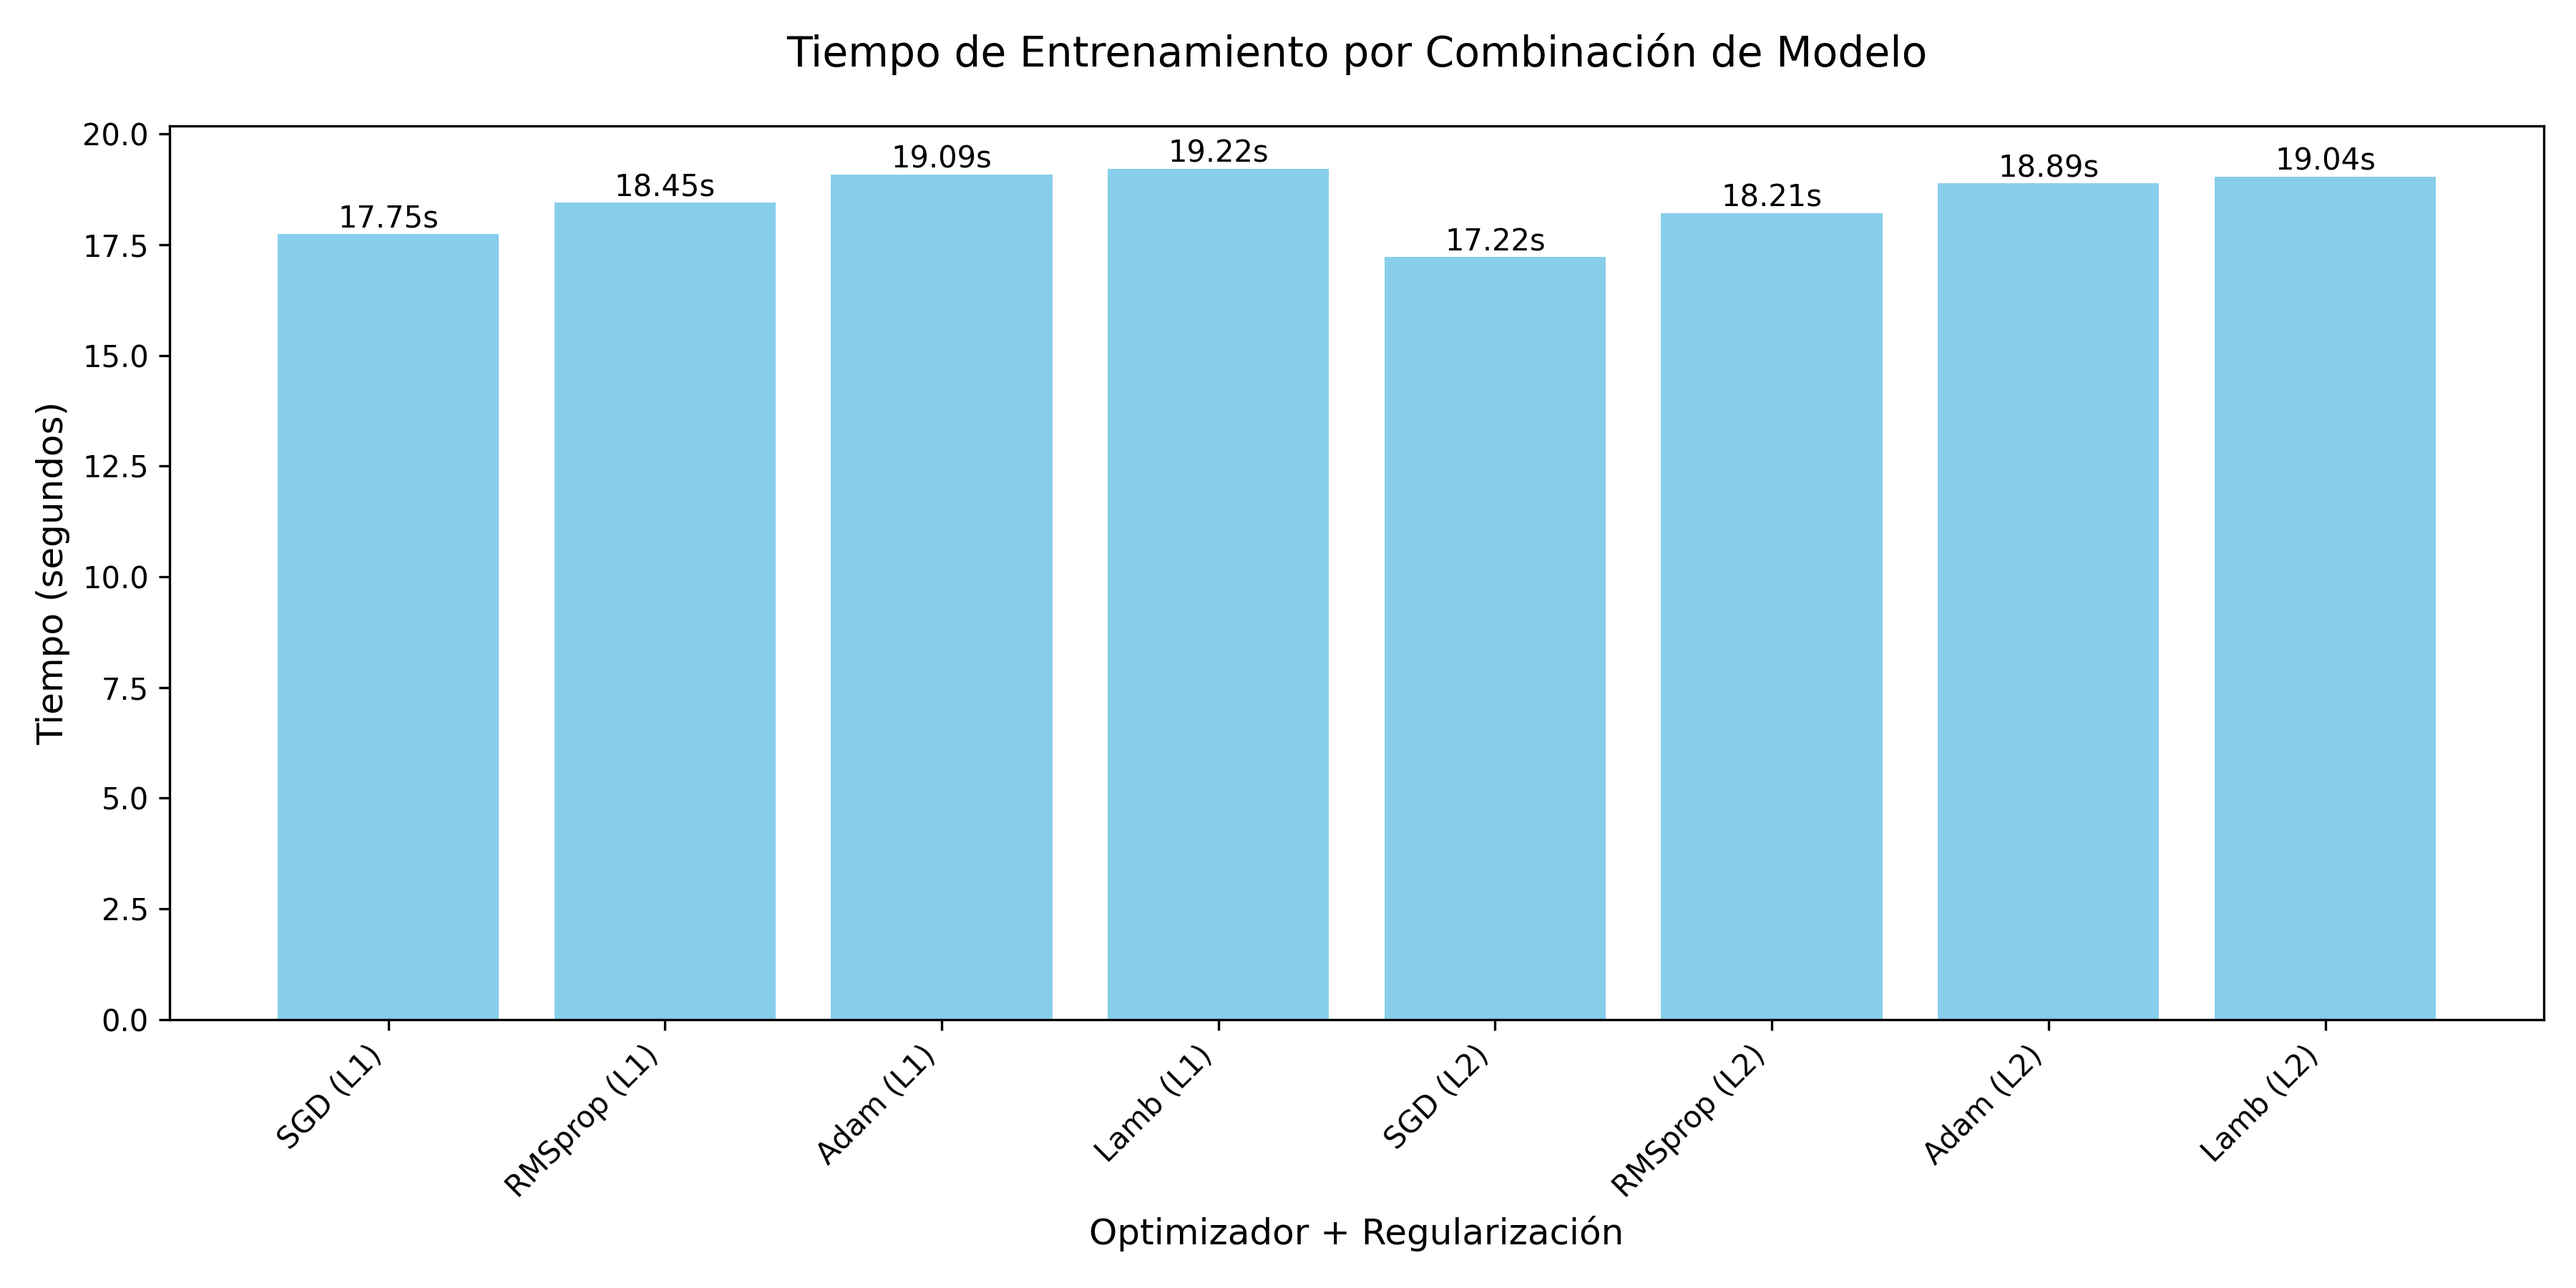
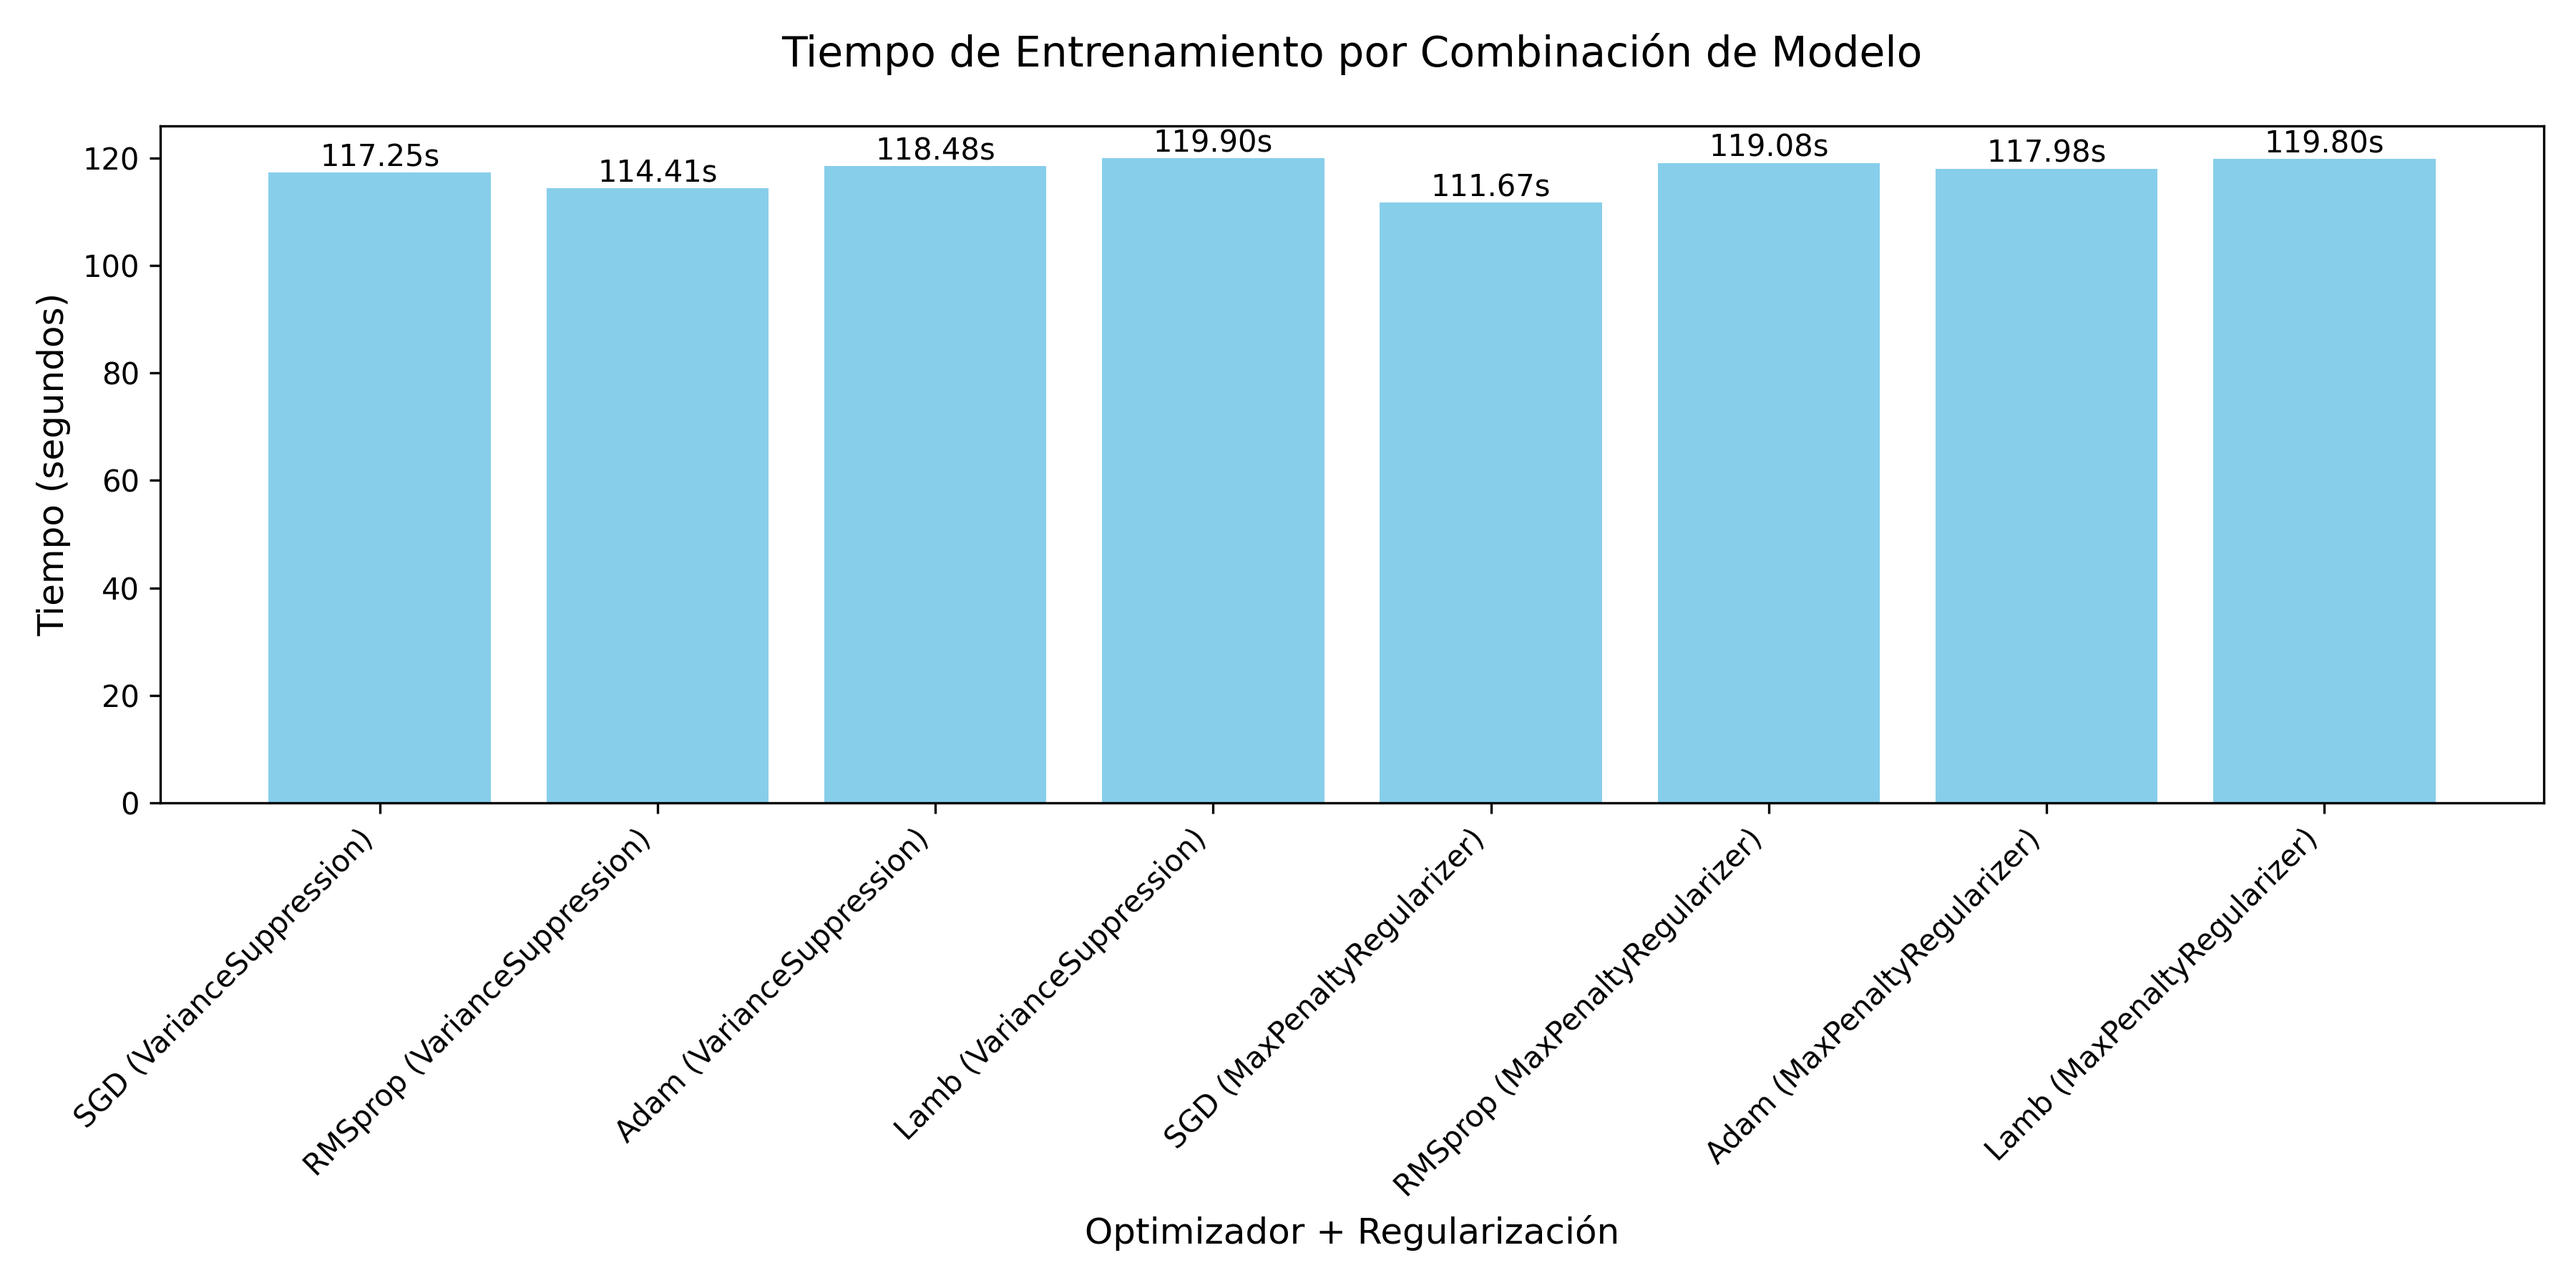
Cambios finales

diff --git a/definir_modelo.py b/definir_modelo.py
@@ -12,7 +12,7 @@ from keras.regularizers import Regularizer
 # Penaliza pesos grandes, pero con una transición más suave.
 # Ventaja: Evita explosiones de gradiente cerca de 0 y es útil para mantener algunos pesos pequeños sin hacerlos exactamente cero.
 class SmoothedAbs(Regularizer):
-    def __init__(self, lmbd=0.01, epsilon=1e-4):
+    def __init__(self, lmbd=0.001, epsilon=1e-4):
         self.lmbd = lmbd
         self.epsilon = epsilon
 
@@ -27,7 +27,7 @@ class SmoothedAbs(Regularizer):
 # Esto impide que los pesos con valores grandes sean castigados excesivamente.
 # Ventaja: Previene que el modelo evite completamente pesos grandes si son necesarios, protegiendo la capacidad de aprendizaje en algunas neuronas.
 class RoundedSquare(Regularizer):
-    def __init__(self, lmbd=0.01, max_val=5.0):
+    def __init__(self, lmbd=0.001, max_val=5.0):
         self.lmbd = lmbd
         self.max_val = max_val
 
@@ -39,45 +39,13 @@ class RoundedSquare(Regularizer):
     def get_config(self):
         return {'lmbd': self.lmbd, 'max_val': self.max_val}
     
-# Contrast Regularizer
-# Penaliza valores intermedios de los pesos (cerca de 0.5 en módulo).
-# El producto |x|(1 - |x|) tiene su pico en |x| = 0.5 y cae a 0 cuando x se acerca a 0 o 1.
-# Fomenta pesos más binarios o extremos.
-# Ventaja: Muy útil en modelos con muchas variables dummy (como los que salen de one-hot), ya que empuja al modelo a tomar decisiones firmes (activa o desactiva neuronas).
-class ContrastRegularizer(Regularizer):
-    def __init__(self, lmbd=0.01):
-        self.lmbd = lmbd
-
-    def __call__(self, x):
-        return self.lmbd * tf.reduce_sum(tf.abs(x) * (1 - tf.abs(x)))
-
-    def get_config(self):
-        return {'lmbd': self.lmbd}
-    
-# Entropy-like Regularizer
-# Inspirada en la entropía binaria.
-# Penaliza valores de peso cercanos a 0.5 (alta incertidumbre).
-# Empuja a que los pesos estén más cerca de 0 o 1, reduciendo la ambigüedad.
-# Ventaja: Ideal para mejorar la interpretabilidad y evitar pesos indecisos, promoviendo una estructura más clara.
-class EntropyLikeRegularizer(Regularizer):
-    def __init__(self, lmbd=0.01, epsilon=1e-5):
-        self.lmbd = lmbd
-        self.epsilon = epsilon
-
-    def __call__(self, x):
-        x = tf.clip_by_value((x + 1) / 2, self.epsilon, 1 - self.epsilon)  # escala [-1,1] a [0,1]
-        return -self.lmbd * tf.reduce_sum(x * tf.math.log(x) + (1 - x) * tf.math.log(1 - x))
-
-    def get_config(self):
-        return {'lmbd': self.lmbd, 'epsilon': self.epsilon}
-
 # Variance Suppression Regularizer
 # Penaliza la varianza entre los pesos.
 # Intenta hacer que los pesos de una capa estén más uniformes entre sí.
 # No busca reducir su valor absoluto, sino armonizar su dispersión.
 # Ventaja: Útil para evitar que ciertas conexiones dominen la red y para inducir una regularización colectiva más equilibrada.
 class VarianceSuppression(Regularizer):
-    def __init__(self, lmbd=0.01):
+    def __init__(self, lmbd=0.001):
         self.lmbd = lmbd
 
     def __call__(self, x):
@@ -86,6 +54,118 @@ class VarianceSuppression(Regularizer):
 
     def get_config(self):
         return {'lmbd': self.lmbd}
+    
+class CosineRegularizer(Regularizer):
+    def __init__(self, lmbd=0.001):
+        self.lmbd = lmbd
+
+    def __call__(self, x):
+        return self.lmbd * tf.reduce_sum(1.0 - tf.cos(x))
+
+    def get_config(self):
+        return {'lmbd': self.lmbd}
+
+class MaxPenaltyRegularizer(Regularizer):
+    def __init__(self, lmbd=0.001):
+        self.lmbd = lmbd
+
+    def __call__(self, x):
+        return self.lmbd * tf.reduce_max(tf.abs(x))
+
+    def get_config(self):
+        return {'lmbd': self.lmbd}
+
+class SmoothStepRegularizer(Regularizer):
+    def __init__(self, lmbd=0.001):
+        self.lmbd = lmbd
+
+    def __call__(self, x):
+        smooth_step = tf.pow(x, 2) * (3 - 2 * tf.abs(x))  # Suave entre -1 y 1
+        return self.lmbd * tf.reduce_sum(smooth_step)
+
+    def get_config(self):
+        return {'lmbd': self.lmbd}
+
+# ----------------------------------------------------
+class WeightOscillationDampener(Regularizer):
+    def __init__(self, lmbd=0.001):
+        self.lmbd = lmbd
+
+    def __call__(self, x):
+        return self.lmbd * tf.reduce_sum(tf.square(tf.sin(x)))
+
+    def get_config(self):
+        return {'lmbd': self.lmbd}
+
+class MinimalEnergyRegularizer(Regularizer):
+    def __init__(self, lmbd=0.001, target_energy=1.0):
+        self.lmbd = lmbd
+        self.target_energy = target_energy
+
+    def __call__(self, x):
+        energy = tf.reduce_sum(tf.square(x))
+        return self.lmbd * tf.square(energy - self.target_energy)
+
+    def get_config(self):
+        return {'lmbd': self.lmbd, 'target_energy': self.target_energy}
+
+class CenteredWeightRegularizer(Regularizer):
+    def __init__(self, lmbd=0.001, center=0.1):
+        self.lmbd = lmbd
+        self.center = center
+
+    def __call__(self, x):
+        return self.lmbd * tf.reduce_sum(tf.square(x - self.center))
+
+    def get_config(self):
+        return {'lmbd': self.lmbd, 'center': self.center}
+
+class EntropyLikeWeightRegularizer(Regularizer):
+    def __init__(self, lmbd=0.001, epsilon=1e-7):
+        self.lmbd = lmbd
+        self.epsilon = epsilon
+
+    def __call__(self, x):
+        abs_x = tf.abs(x)
+        probs = abs_x / (tf.reduce_sum(abs_x) + self.epsilon)
+        entropy = -tf.reduce_sum(probs * tf.math.log(probs + self.epsilon))
+        return self.lmbd * entropy
+
+    def get_config(self):
+        return {'lmbd': self.lmbd, 'epsilon': self.epsilon}
+
+class AntiSaturationRegularizer(Regularizer):
+    def __init__(self, lmbd=0.001):
+        self.lmbd = lmbd
+
+    def __call__(self, x):
+        return self.lmbd * tf.reduce_sum(1.0 / (1.0 + tf.square(x)))
+
+    def get_config(self):
+        return {'lmbd': self.lmbd}
+
+class SparseGroupRegularizer(Regularizer):
+    def __init__(self, lmbd=0.001):
+        self.lmbd = lmbd
+
+    def __call__(self, x):
+        group_norm = tf.sqrt(tf.reduce_sum(tf.square(x)))
+        return self.lmbd * group_norm
+
+    def get_config(self):
+        return {'lmbd': self.lmbd}
+
+class LayerSmoothnessRegularizer(Regularizer):
+    def __init__(self, lmbd=0.001):
+        self.lmbd = lmbd
+
+    def __call__(self, x):
+        diff = x[1:] - x[:-1]
+        return self.lmbd * tf.reduce_sum(tf.square(diff))
+
+    def get_config(self):
+        return {'lmbd': self.lmbd}
+
 
 # Definición del modelo de Keras con regularización personalizada
 # Se define una función que construye el modelo con las capas y se le aplican los regularizadores personalizados

diff --git a/main.py b/main.py
@@ -1,5 +1,5 @@
 from procesamiento_datos import load_and_preprocess_data
-from definir_modelo import construir_modelo, SmoothedAbs, RoundedSquare, EntropyLikeRegularizer, VarianceSuppression, TangentRegularizer                                        
+from definir_modelo import construir_modelo, SmoothedAbs, RoundedSquare, VarianceSuppression, CosineRegularizer, MaxPenaltyRegularizer, SmoothStepRegularizer, WeightOscillationDampener, MinimalEnergyRegularizer, CenteredWeightRegularizer, EntropyLikeWeightRegularizer, AntiSaturationRegularizer, SparseGroupRegularizer, LayerSmoothnessRegularizer                                 
 from entrenamiento import train_model
 from evaluacion import evaluate_model
 from keras.optimizers import SGD, RMSprop, Adam, Lamb
@@ -10,8 +10,9 @@ import matplotlib.pyplot as plt
 import random 
 import numpy as np 
 import tensorflow as tf 
+# 42 -31 -12
+SEED = 12
 
-SEED = 42 
 random.seed(SEED)
 np.random.seed(SEED)
 tf.random.set_seed(SEED)
@@ -23,10 +24,20 @@ X_train, X_test, y_train, y_test = load_and_preprocess_data('mushrooms.csv')
 lambdaRegularizador = 0.01
 regularizadoresPropios = {
     #'SmoothedAbs': SmoothedAbs(lmbd=lambdaRegularizador),
-    'RoundedSquare': RoundedSquare(lmbd=lambdaRegularizador)
-    #'EntropyLike': EntropyLikeRegularizer(lmbd=lambdaRegularizador),
-    #'Tangent': TangentRegularizer(lmbd=lambdaRegularizador), 
-    #'VarianceSuppression': VarianceSuppression(lmbd=lambdaRegularizador)
+    #'RoundedSquare': RoundedSquare(lmbd=lambdaRegularizador),
+    'VarianceSuppression': VarianceSuppression(lmbd=lambdaRegularizador),
+    #'CosineRegularizer': CosineRegularizer(lmbd=lambdaRegularizador),
+    'MaxPenaltyRegularizer': MaxPenaltyRegularizer(lmbd=lambdaRegularizador)
+    #'SmoothStepRegularizer': SmoothStepRegularizer(lmbd=lambdaRegularizador),
+
+    #'WeightOscillationDampener': WeightOscillationDampener(lmbd=lambdaRegularizador),
+    #'MinimalEnergyRegularizer': MinimalEnergyRegularizer(lmbd=lambdaRegularizador),
+    #'CenteredWeightRegularizer': CenteredWeightRegularizer(lmbd=lambdaRegularizador, center=0.1),
+    #'EntropyLikeWeightRegularizer': EntropyLikeWeightRegularizer(lmbd=lambdaRegularizador, epsilon=1e-7),
+    #'AntiSaturationRegularizer': AntiSaturationRegularizer(lmbd=lambdaRegularizador),
+    #'SparseGroupRegularizer': SparseGroupRegularizer(lmbd=lambdaRegularizador),
+    #'LayerSmoothnessRegularizer': LayerSmoothnessRegularizer(lmbd=lambdaRegularizador)
+
 }
 
 # Lista para almacenar los resultados
@@ -37,10 +48,10 @@ numero_caracteristicas = X_train.shape[1]
 for nombre_reg, regularizador in regularizadoresPropios.items():
     # Definir los algoritmos de optimización a utilizar y sus parámetros de aprendizaje
     algoritmos_optimizacion = {
-        'SGD': SGD(learning_rate=0.001)
-        #'RMSprop': RMSprop(learning_rate=0.001),
-        #'Adam': Adam(learning_rate=0.001),
-        #'Lamb': Lamb(learning_rate=0.001)  
+        'SGD': SGD(learning_rate=0.001),
+        'RMSprop': RMSprop(learning_rate=0.001),
+        'Adam': Adam(learning_rate=0.001),
+        'Lamb': Lamb(learning_rate=0.001)  
         }
     
     # Se crea una figura para graficar la precisión de validación para cada combinación de regularizador y optimizador

diff --git a/entrenamiento.py b/entrenamiento.py
@@ -23,7 +23,7 @@ def train_model(model, X_train, y_train, optimizer, X_test, y_test):
     model.compile(optimizer=optimizer, loss='binary_crossentropy', metrics=['accuracy'])
     start_time = time.time()
     history = model.fit(X_train, y_train, 
-                        epochs=50, 
+                        epochs=200,  
                         batch_size=32,
                         validation_data=(X_test, y_test),
                         verbose=0)
